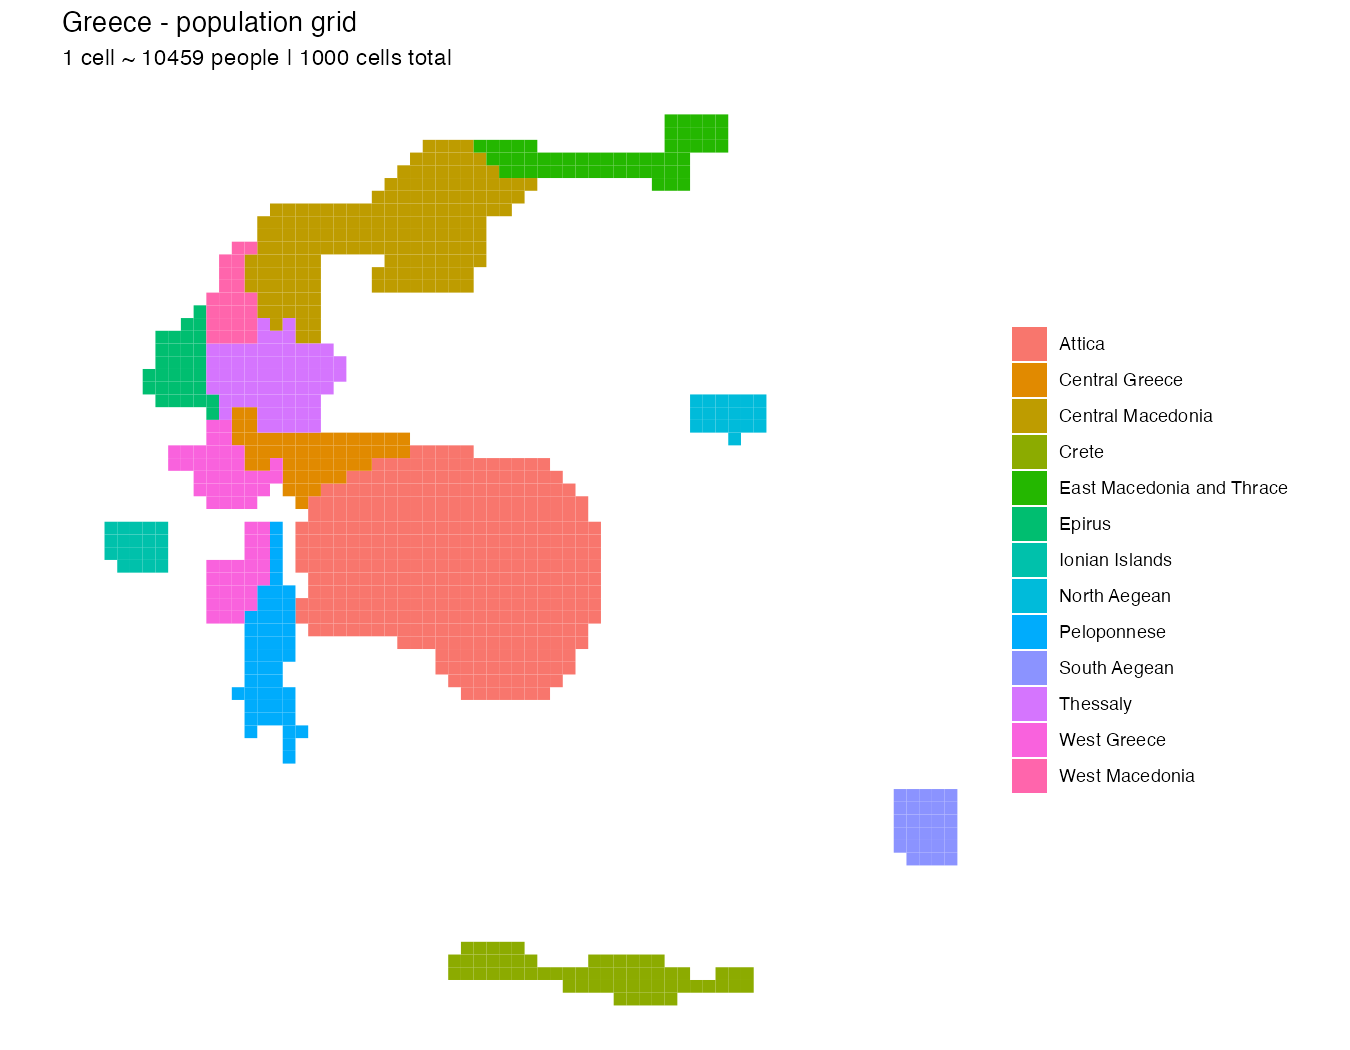
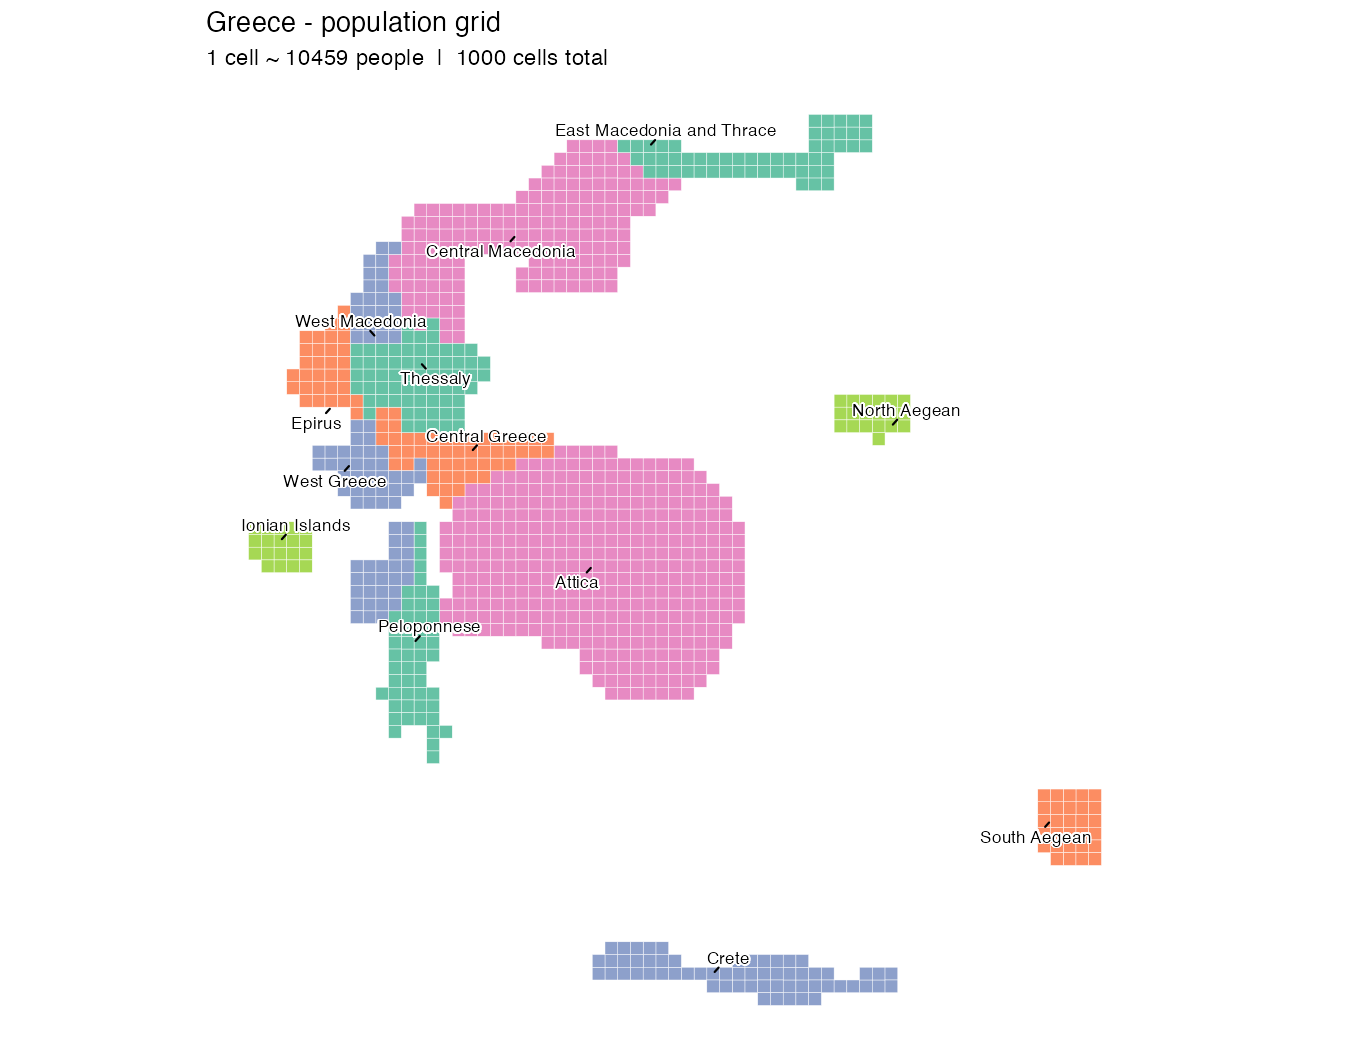
Greece example: five Brewer colours and region labels
Claude-Session: https://claude.ai/code/session_014Q1k2w9i59AmU8MZDDBRio

diff --git a/README.md b/README.md
@@ -51,7 +51,7 @@ attr(cells, "quotas")
 ## Example: Greece
 
 The boundaries come from Natural Earth through `load_country_regions()`,
-which needs rnaturalearth. The population figures are from the 2021 ELSTAT
+which needs rnaturalearth. The plot also uses ggrepel and RColorBrewer. The population figures are from the 2021 ELSTAT
 census. The same script is in `inst/examples/greece.R`.
 
 ```r
@@ -82,18 +82,41 @@ population <- c(
 
 cells <- popgrid(regions, values = population, n = 1000)
 
+# Five ColorBrewer Set2 colours, assigned by hand so that no two
+# neighbouring regions share one. Labels name the regions.
+set2 <- RColorBrewer::brewer.pal(5, "Set2")
+
+region_colour <- c(
+  "Thessaly"                  = set2[1],
+  "East Macedonia and Thrace" = set2[1],
+  "Peloponnese"               = set2[1],
+  "Central Greece"            = set2[2],
+  "Epirus"                    = set2[2],
+  "South Aegean"              = set2[2],
+  "West Greece"               = set2[3],
+  "West Macedonia"            = set2[3],
+  "Crete"                     = set2[3],
+  "Central Macedonia"         = set2[4],
+  "Attica"                    = set2[4],
+  "Ionian Islands"            = set2[5],
+  "North Aegean"              = set2[5]
+)
+
+blocks <- aggregate(cells["region_name"], by = list(region = cells$region_name), FUN = \(x) x[1])
+
 ggplot(cells) +
-  geom_sf(aes(fill = region_name), color = NA) +
+  geom_sf(aes(fill = region_name), color = "white", linewidth = 0.1) +
+  ggrepel::geom_text_repel(data = blocks, aes(label = region, geometry = geometry), stat = "sf_coordinates", fun.geometry = sf::st_point_on_surface, size = 3, bg.color = "white", bg.r = 0.15, min.segment.length = 0, seed = 1) +
+  scale_fill_manual(values = region_colour, guide = "none") +
   theme_void() +
-  theme(legend.position = "right", legend.title = element_blank()) +
   labs(
     title    = "Greece - population grid",
-    subtitle = sprintf("1 cell ~ %.0f people | %d cells total",
+    subtitle = sprintf("1 cell ~ %.0f people  |  %d cells total",
                        attr(cells, "value_per_cell"), nrow(cells))
   )
 ```
 
-![Mosaic cartogram of Greece: 1000 square cells, one per ~10,500 people, coloured by region](man/figures/greece.png)
+![Mosaic cartogram of Greece: 1000 square cells, one per ~10,500 people, in five colours with no two neighbouring regions alike, each region labelled](man/figures/greece.png)
 
 ## Deformation methods
 
